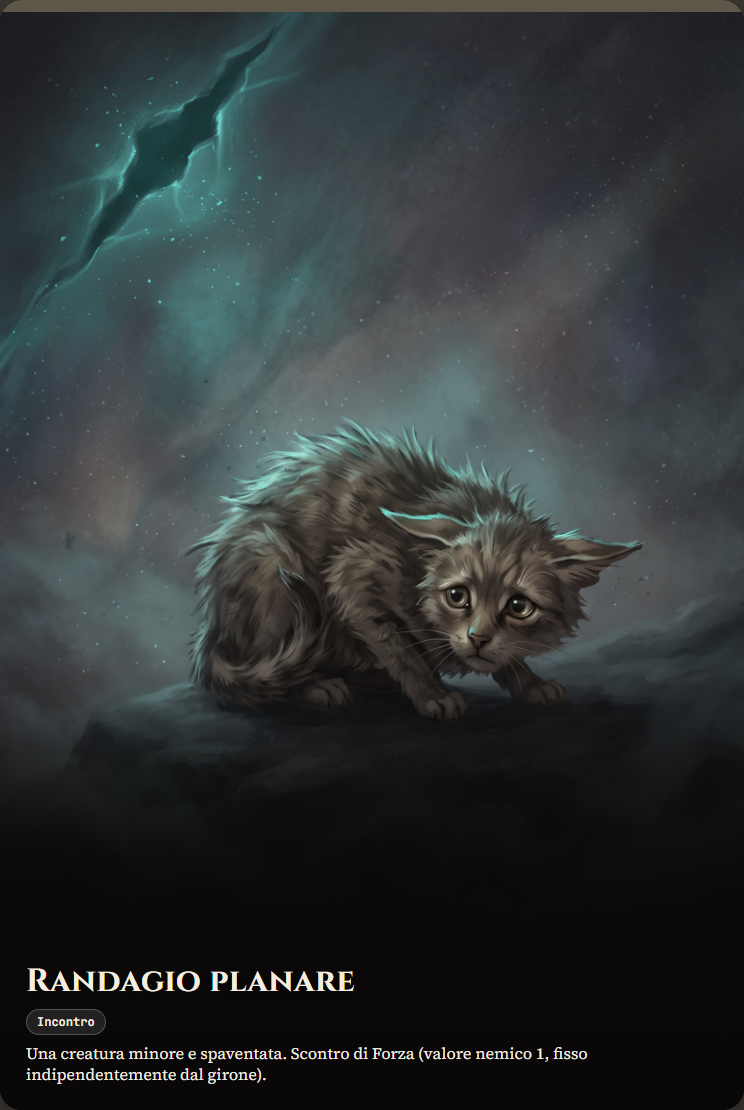
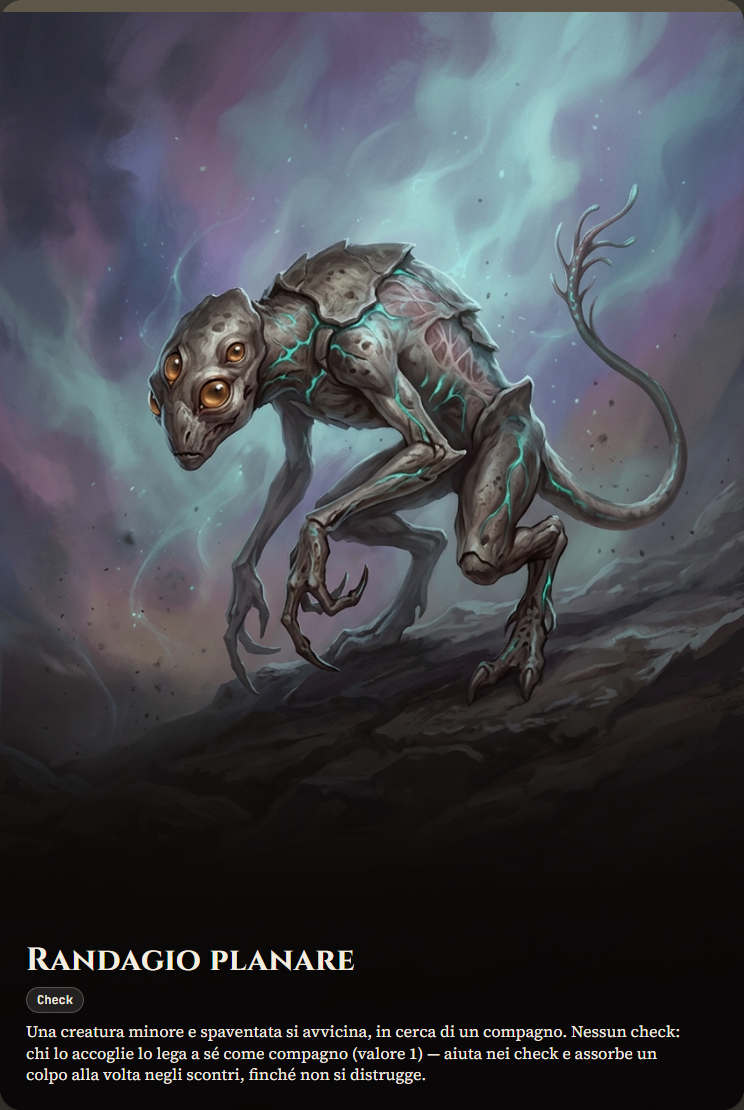
Randagio Planare: da scontro a mostro-compagno (valore 1)
Su richiesta dell'utente, ridisegnata completamente la carta: prima
era uno scontro di Forza contro un nemico minore (valore 1 fisso),
ora è un incontro automatico senza check in cui la creatura si offre
come compagno (stesso meccanismo di grantCompanion già usato da
Giardino Pietrificato/Mano Fantasma) — chi la accoglie la lega a sé
con valore 1: aiuta nei check e assorbe un colpo alla volta negli
scontri finché non si distrugge. Aggiunta una scelta per personaggio
presente (o "nessuno la accoglie"), stesso stile di Statua di Stasi.

Sostituita anche l'illustrazione con la nuova arte fornita
dall'utente (era salvata come "randagio planare.jpg" nella cartella
di lavoro, spostata secondo la convenzione in
assets/cards_raw/ge_randagio.jpg, sovrascrivendo la vecchia — non
più coerente con la nuova meccanica — e da lì ricomposta).

Verificato dal vivo: il pulsante per personaggio lega davvero un
compagno "Randagio Planare" (valore 1) al personaggio scelto.

diff --git a/index.html b/index.html
@@ -459,7 +459,7 @@ const INCONTRI = {
     C("ge_segnale","Segnale di richiamo","ricompensa","Si intercetta un segnale per ritrovare un compagno separato: il prossimo salto riunirà automaticamente tutti i gruppi separati.",{reward:{type:"syncJump"}}),
     C("ge_cacciatore","Cacciatore di taglie planare","incontro","Un cacciatore di taglie planare attacca il gruppo. Scontro su una caratteristica a scelta (valore nemico 2).",{check:"choice",gravity:0}),
     C("ge_anomalia","Anomalia temporale","check","Automatico, nessun check: tira 1d6. 1-2 il gruppo perde il turno e resta fermo dov'è (se il piano ha un rischio di fine turno, lo subisce di nuovo); 3-4 nessun effetto; 5 si pesca subito un altro Incontro; 6 +1 risorsa planare a testa.",{anomaliaCard:true}),
-    C("ge_randagio","Randagio planare","incontro","Una creatura minore e spaventata. Scontro di Forza (valore nemico 1, fisso indipendentemente dal girone).",{check:"for",gravity:-1,forceBase2:true}),
+    C("ge_randagio","Randagio planare","check","Una creatura minore e spaventata si avvicina, in cerca di un compagno. Nessun check: chi lo accoglie lo lega a sé come compagno (valore 1) — aiuta nei check e assorbe un colpo alla volta negli scontri, finché non si distrugge.",{randagioCard:true}),
     C("ge_superstite","Superstite planare","ricompensa","Un superstite offre la stessa scelta a tre del Viandante smarrito: Resistenza di gruppo, sbircia 2 carte Piani, o rimescola il mazzo.",{reward:{type:"choice3"}}),
     C("ge_legame","Legame a distanza","ricompensa","Un legame a distanza si stabilisce: il prossimo salto riunirà automaticamente tutti i gruppi separati.",{reward:{type:"syncJump"}}),
   ],
@@ -2007,6 +2007,11 @@ function renderIncontroAction(){
     bindEsattoreCard(acts, plane);
     return;
   }
+  if(card.randagioCard){
+    el.innerHTML = fineTurnoWarning + renderRandagioCard(acts);
+    bindRandagioCard(acts);
+    return;
+  }
   if(card.richiamoCard){
     if(!state.currentDraw.autoApplied){
       const victims = acts.filter(c=>c.turnStartPv!=null && c.stats.pv < c.turnStartPv);
@@ -2760,6 +2765,23 @@ function bindStatuaCard(acts){
     const [cid,itemId]=b.dataset.statua.split('::');
     const c=acts.find(x=>x.id===cid);
     setProtectedItem(c, itemId);
+    finishIncontro();
+  });
+  const btn=document.getElementById('btnResolveDone');
+  if(btn) btn.onclick=finishIncontro;
+}
+function renderRandagioCard(acts){
+  return `<div class="manual-box">
+    <h4>🐾 Randagio Planare</h4>
+    <p style="font-size:.85rem;">Una creatura minore e spaventata si avvicina, in cerca di un compagno. Chi lo accoglie lo lega a sé (valore 1): aiuta nei check e assorbe un colpo alla volta negli scontri, finché non si distrugge.</p>
+    <div class="row">${acts.map(c=>`<button class="small" data-randagio="${c.id}">${c.name} lo accoglie${c.companion?` (sostituisce ${escapeHtml(c.companion.name)})`:''}</button>`).join('')}</div>
+    <button class="primary mt1" id="btnResolveDone">Nessuno lo accoglie, si allontana</button>
+  </div>`;
+}
+function bindRandagioCard(acts){
+  document.querySelectorAll('[data-randagio]').forEach(b=>b.onclick=()=>{
+    const c=acts.find(x=>x.id===b.dataset.randagio);
+    grantCompanion(c, 'Randagio Planare', 1);
     finishIncontro();
   });
   const btn=document.getElementById('btnResolveDone');
